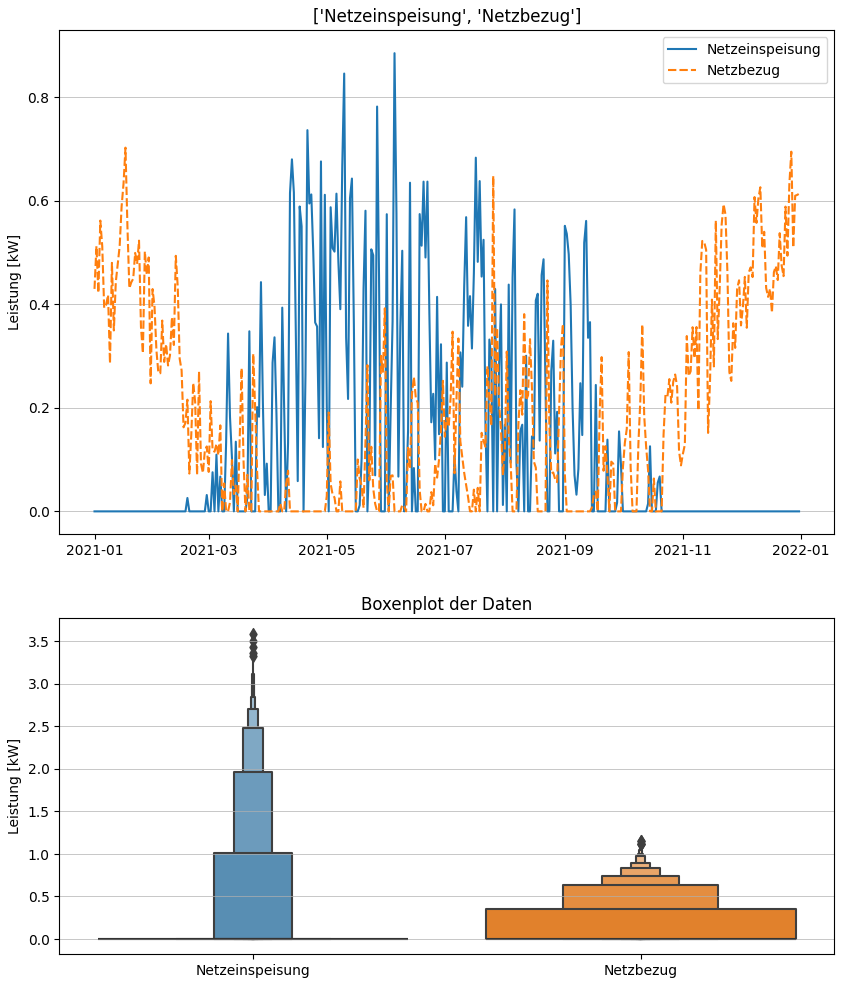
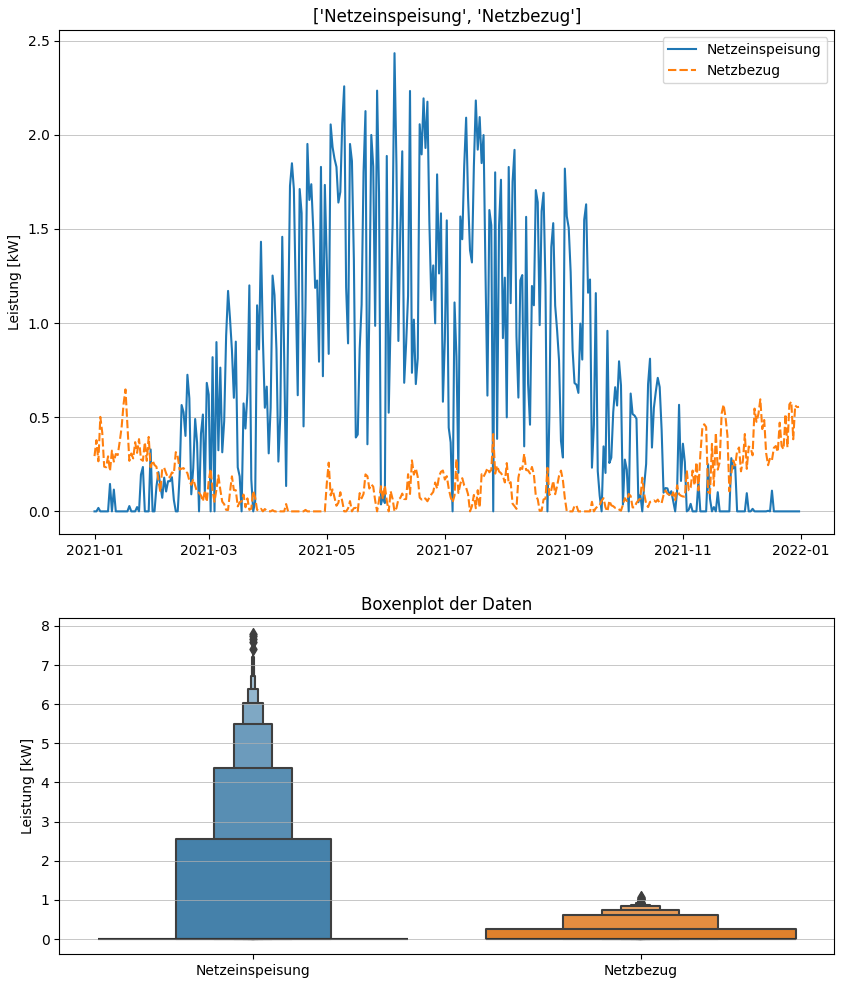
rr

diff --git a/EIMS_Opt/EIMS_Opt.py b/EIMS_Opt/EIMS_Opt.py
@@ -196,7 +196,7 @@ class cla_Plotting():
         plt.savefig("./Bilder/"+str_toSave+"", bbox_inches = 'tight',pad_inches = 0.08)
 
         
-    def Sankeyplot(self,obj_Datatracker):
+    def Sankeyplot(self,obj_Datatracker :cla_Data_Tracking):
         fig, ax = plt.subplots(figsize=(10,12))
         flows_Batterie = [obj_Datatracker.Batterieentladung.sum(),obj_Datatracker.Batterieeinspeisung.sum()*-1,obj_Datatracker.Batterieverluste.sum()*-1]
         flows_Gebäude = [obj_Datatracker.Batterieeinspeisung.sum(),obj_Datatracker.Batterieentladung.sum()*-1,
@@ -214,13 +214,13 @@ class cla_Plotting():
                 
         sankey = Sankey(ax=ax, scale=0.8, unit = "kWh")
         sankey.add(flows=flows_Gebäude, label=labels_Gebäude, edgecolor = '#000000', facecolor = 'lightgrey',
-           orientations=orientation_Gebäude, trunklength = 5000, pathlengths = [2500,1000,1000,1000,1000,1000])
+           orientations=orientation_Gebäude, trunklength = 1000, pathlengths = [2500,1000,1000,1000,1000,1000])
         
         sankey.add(flows=flows_Batterie, label=labels_Batterie,edgecolor = '#000000', facecolor = 'lightblue',
-           orientations=orientation_Batterie, trunklength = 5000, pathlengths = 500,prior=0,connect=(1, 0))
+           orientations=orientation_Batterie, trunklength = 1000, pathlengths = 500,prior=0,connect=(1, 0))
         
         sankey.add(flows=flows_Netz, label=labels_Netz,edgecolor = '#000000', facecolor = 'khaki',
-           orientations=orientation_Netz, trunklength = 5000, pathlengths = 500,prior=0,connect=(4, 0))
+           orientations=orientation_Netz, trunklength = 1000, pathlengths = 500,prior=0,connect=(4, 0))
     
         sankey.finish()
             
@@ -288,8 +288,8 @@ class Model():
         flows_out = [obj_Datatracker.Netzeinspeisung.sum(),obj_Datatracker.Batterieeinspeisung.sum(), 
                             obj_Datatracker.Batterieverluste.sum(),obj_Datatracker.Gebäudeverbrauch.sum()]
         Test = sum(flows_in) - sum(flows_out)
-        if abs(Test) > 0.0000001:
-            raise ValueError("ENERGIEBILANZ STIMMT NICHT!")
+        #if abs(Test) > 0.0000001:
+         #   raise ValueError("ENERGIEBILANZ STIMMT NICHT!")
 
 
         # calculate cost [€/life cycle]
@@ -345,7 +345,7 @@ def main():
     #result = model.Simulate(var_BGF=200, var_PV_kWP = 0, var_battery_kWh = 0, verbose = False, plotting = True)
     #result = model.Simulate(var_BGF=200, var_PV_kWP = 10, var_battery_kWh = 0, verbose = False, plotting = True)
     #result = model.Simulate(var_BGF=200, var_PV_kWP = 0, var_battery_kWh = 10, verbose = False, plotting = True)
-    result = model.Simulate(var_BGF=100, var_PV_kWP = 5, var_battery_kWh = 7.5, verbose = False, plotting = True)
+    result = model.Simulate(var_BGF=100, var_PV_kWP = 10, var_battery_kWh = 5, verbose = False, plotting = True)
     
 
     print(f"Gesamtkosten: {result['Gesamtkosten']:.2f} €")
